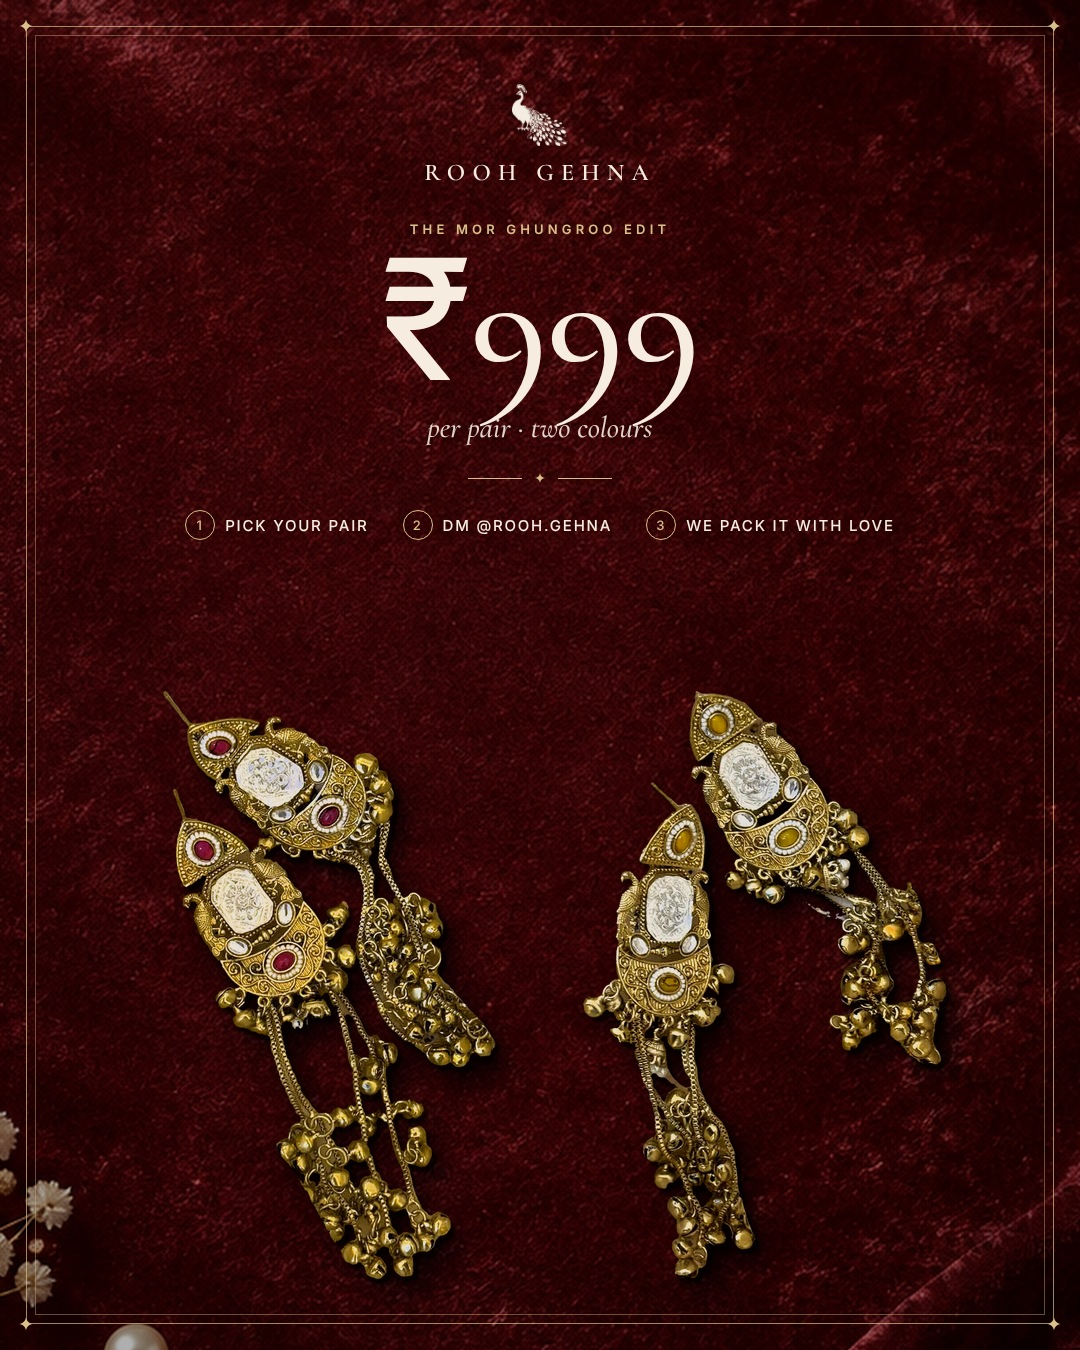
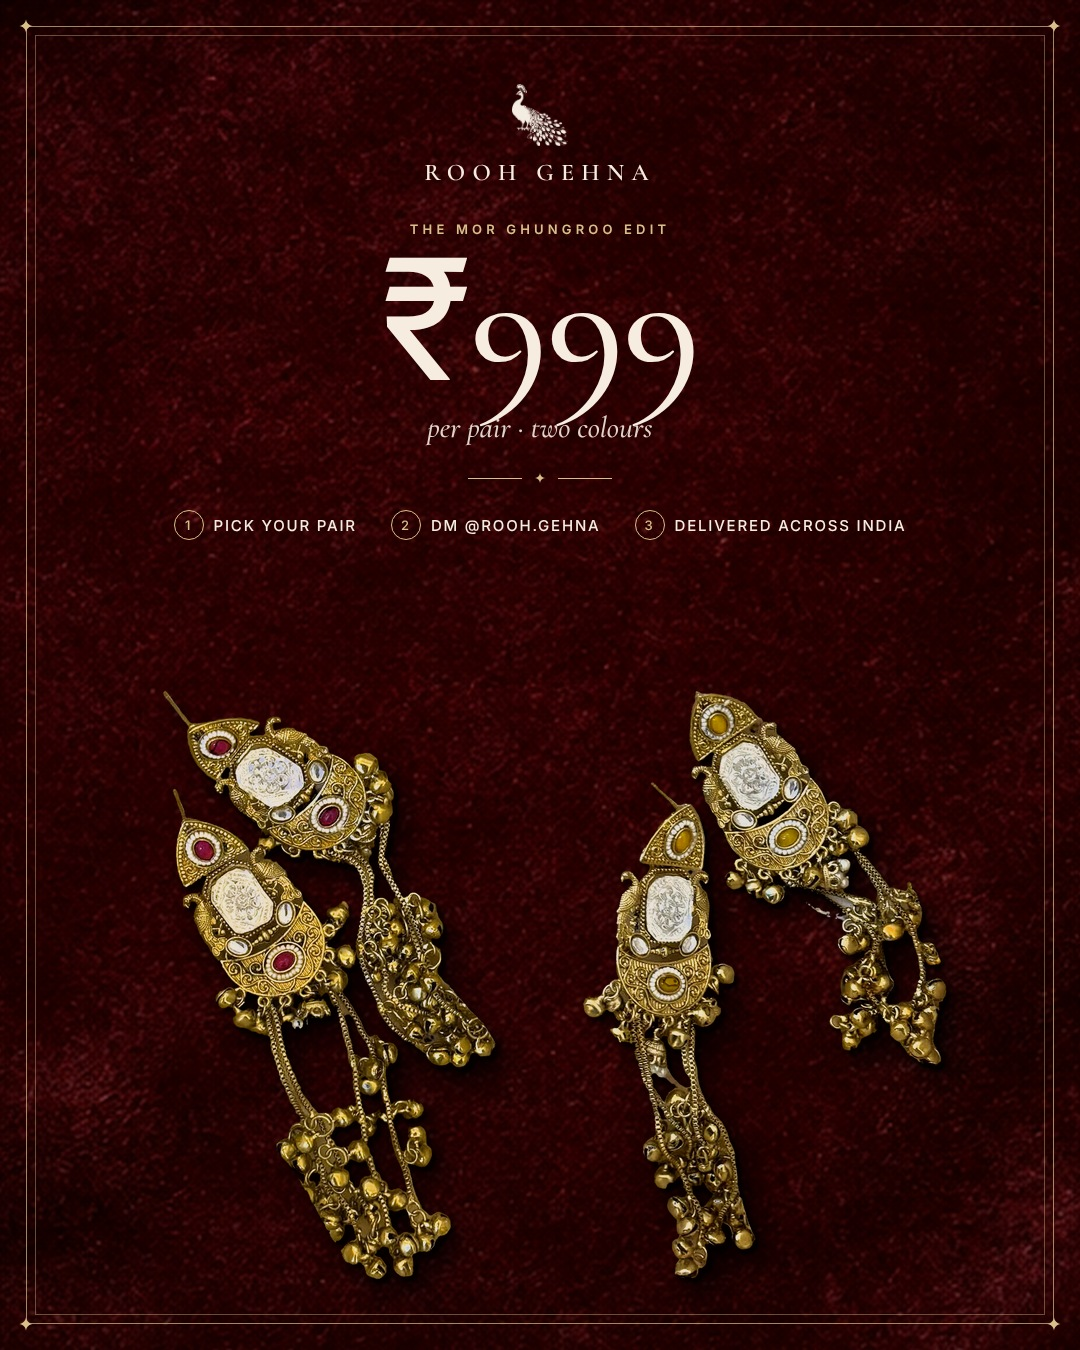
Remove boxes, pouches and gift-wrap from posts and site
No packaging is provided with orders, so:
- Instagram posts re-made on velvet, silk saree and stone backgrounds
  with no box, lid print or pouch
- Website and policy text no longer mention gift boxes, pouches or
  wrapping; the third order step is now delivery

Claude-Session: https://claude.ai/code/session_01U7uLHghsbhYa4ktsFdNifT

diff --git a/preview/Rooh-Gehna-Mobile.html b/preview/Rooh-Gehna-Mobile.html
@@ -1587,7 +1587,7 @@ textarea {
       { h: "Cancellations", p: "You can cancel any time before your order is dispatched. Just send us a DM." }] },
     care: { title: "Jewellery Care", body: [
       { p: "Our pieces have a plated, antique finish. With a little love, they stay beautiful for years." },
-      { h: "Do", p: "Wear your jewellery last — after makeup, perfume and hairspray. Wipe with a soft, dry cloth after use. Store each piece separately in its pouch, in an airtight box if possible." },
+      { h: "Do", p: "Wear your jewellery last — after makeup, perfume and hairspray. Wipe with a soft, dry cloth after use. Store each piece separately, in an airtight box or zip bag if possible." },
       { h: "Don’t", p: "Avoid water, perfume, sanitiser and moisture. Don’t sleep, bathe, swim or exercise in your jewellery." }] },
     privacy: { title: "Privacy Policy", body: [
       { p: "Rooh Gehna (“we”, “us”) respects your privacy. This website does not collect personal details, payments or accounts. Orders are placed with us directly on Instagram." },
@@ -1679,7 +1679,7 @@ textarea {
     var f = PRODUCTS[0];
     var steps = [["Choose your pair", "Browse the collection and pick the colour you love."],
       ["Send us a DM", "Tap “DM to order” and message @rooh.gehna with the piece’s name. We’ll confirm availability and delivery details."],
-      ["We pack it with love", "Your piece arrives in our gift-ready box, wrapped by hand."]];
+      ["Delivered to your door", "Once your order is confirmed, we ship it across India in 4–7 days."]];
     return '<section class="hero" aria-label="Rooh Gehna by Khushi"><div class="hero__bg" aria-hidden="true"></div><div class="hero__frame">' +
       '<img class="hero__img" src="' + IMG.hero + '" alt="Rooh Gehna by Khushi — peacock emblem on a soft ivory wall with pearls and kundan jewellery">' +
       '<div class="hero__cta"><p>Heritage jewellery, for the soul.</p><div class="hero__btns"><a href="#shop" class="btn btn--primary">Shop the collection</a><a href="#about" class="btn btn--light">Our story</a></div></div></div></section>' +
@@ -1695,7 +1695,7 @@ textarea {
         '<div style="display:flex;justify-content:center;margin-top:40px">' + orderBtn() + "</div></div></section>" +
       '<section class="section section--sand"><div class="container story">' +
         reveal('<div class="story__frame"><img src="' + IMG.lockup + '" alt="Rooh Gehna by Khushi"><p>Handpicked with love</p></div>', "story__art story__art--card") +
-        reveal('<span class="eyebrow">by Khushi</span><h2 class="h2">A peacock, a promise, and a love for old-world craft.</h2><p class="lede">The peacock — mor — has always meant grace and celebration in our homes. Rooh Gehna began with that feeling: jewellery that looks like an heirloom, feels light enough to live in, and is priced so you can wear it often.</p><p class="lede">Every piece is checked, polished and packed by hand before it reaches you.</p><span class="signature">— Khushi</span><div><a href="#about" class="link-arrow">Read our story ' + I.arrow(16) + "</a></div>", "story__body", 120) +
+        reveal('<span class="eyebrow">by Khushi</span><h2 class="h2">A peacock, a promise, and a love for old-world craft.</h2><p class="lede">The peacock — mor — has always meant grace and celebration in our homes. Rooh Gehna began with that feeling: jewellery that looks like an heirloom, feels light enough to live in, and is priced so you can wear it often.</p><p class="lede">Every piece is checked and polished by hand before it reaches you.</p><span class="signature">— Khushi</span><div><a href="#about" class="link-arrow">Read our story ' + I.arrow(16) + "</a></div>", "story__body", 120) +
       "</div></section>" +
       '<section class="section">' + reveal('<img src="' + IMG.peacock + '" alt="" width="64" height="71"><h2 class="h2">Join the family on Instagram</h2><p class="lede">New drops, styling reels and behind-the-scenes — @' + IG + '</p><a href="' + IG_URL + '" target="_blank" rel="noopener noreferrer" class="btn btn--primary">' + I.insta(18) + " Follow @" + IG + "</a>", "container band") + "</section>";
   }
@@ -1715,17 +1715,17 @@ textarea {
       '<div class="pdp__info"><div><span class="eyebrow" style="margin-bottom:12px">' + p.badge + '</span><h1 class="pdp__title">' + p.name + '</h1><p class="pdp__sub">' + p.subtitle + "</p></div>" +
       '<div class="pdp__price">' + price(p) + '<em>DM to order</em></div><p class="pdp__desc">' + p.description + "</p>" +
       '<div class="pdp__order" id="rg-buy">' + orderBtn(p, null, "btn btn--primary btn--block btn--lg", true) + "</div>" +
-      '<div class="pdp__perks"><div>' + I.shield() + " Checked by hand</div><div>" + I.gift() + " Gift-ready box</div><div>" + I.truck() + " Ships across India</div></div>" +
+      '<div class="pdp__perks"><div>' + I.shield() + " Checked by hand</div><div>" + I.spark(18) + " Handpicked design</div><div>" + I.truck() + " Ships across India</div></div>" +
       '<div class="acc"><details open><summary>Details ' + I.chev(18) + '</summary><div class="acc__body"><ul>' + p.details.map(function (d) { return "<li>" + d + "</li>"; }).join("") + "</ul></div></details>" +
-      "<details><summary>How to order " + I.chev(18) + '</summary><div class="acc__body">Tap “DM to order on Instagram” and send us a DM with the name of this piece (' + p.name + "). We’ll confirm availability, share payment options and delivery time, and pack your order once it’s confirmed.</div></details>" +
-      "<details><summary>Care " + I.chev(18) + '</summary><div class="acc__body">Keep away from perfume, water and moisture. Wipe gently with a soft dry cloth after wearing and store in its pouch, separately from other pieces, so the finish and the ghungroos stay bright.</div></details></div>' +
+      "<details><summary>How to order " + I.chev(18) + '</summary><div class="acc__body">Tap “DM to order on Instagram” and send us a DM with the name of this piece (' + p.name + "). We’ll confirm availability, share payment options and delivery time, and ship your order once it’s confirmed.</div></details>" +
+      "<details><summary>Care " + I.chev(18) + '</summary><div class="acc__body">Keep away from perfume, water and moisture. Wipe gently with a soft dry cloth after wearing and store it in an airtight box, separately from other pieces, so the finish and the ghungroos stay bright.</div></details></div>' +
       "</div></div>" +
       '<section class="section">' + reveal('<h2 class="h2">Also in this drop</h2><a href="#shop" class="link-arrow">Shop all</a>', "section-head") + grid(others, others.length === 1 ? "grid--single" : "") + "</section></div>" +
       '<div class="sticky-buy" id="rg-sticky"><div><b>' + p.name + "</b><span>" + price(p) + " · DM to order</span></div>" + orderBtn(p, "DM to order") + "</div>";
   }
 
   function vAbout() {
-    var pts = [["Handpicked", "Every design is personally chosen — nothing makes it to the shop unless we’d wear it ourselves."], ["Checked by hand", "Each piece is inspected, polished and packed by hand before it leaves us."], ["Made to last", "Quality plating and secure settings, with care instructions in every box."], ["Small & personal", "Questions? You’ll be talking to us directly — not a call centre."]];
+    var pts = [["Handpicked", "Every design is personally chosen — nothing makes it to the shop unless we’d wear it ourselves."], ["Checked by hand", "Each piece is inspected and polished by hand before it leaves us."], ["Made to last", "Quality plating and secure settings, made to be worn again and again."], ["Small & personal", "Questions? You’ll be talking to us directly — not a call centre."]];
     var b = PRODUCTS[1];
     return '<div class="container">' + reveal('<img src="' + IMG.lockup + '" alt="Rooh Gehna by Khushi" style="width:260px;height:auto;margin-bottom:12px"><h1 class="display" style="max-width:900px">Adornment, for the soul.</h1>', "page-head") + "</div>" +
       '<section class="section--tight" style="padding-top:0"><div class="container story">' + reveal('<img src="' + IMG[b.images[2]] + '" alt="' + b.name + ' earring, close-up" loading="lazy">', "story__art") +

diff --git a/preview/Rooh-Gehna-PC.html b/preview/Rooh-Gehna-PC.html
@@ -1578,7 +1578,7 @@ textarea {
       { h: "Cancellations", p: "You can cancel any time before your order is dispatched. Just send us a DM." }] },
     care: { title: "Jewellery Care", body: [
       { p: "Our pieces have a plated, antique finish. With a little love, they stay beautiful for years." },
-      { h: "Do", p: "Wear your jewellery last — after makeup, perfume and hairspray. Wipe with a soft, dry cloth after use. Store each piece separately in its pouch, in an airtight box if possible." },
+      { h: "Do", p: "Wear your jewellery last — after makeup, perfume and hairspray. Wipe with a soft, dry cloth after use. Store each piece separately, in an airtight box or zip bag if possible." },
       { h: "Don’t", p: "Avoid water, perfume, sanitiser and moisture. Don’t sleep, bathe, swim or exercise in your jewellery." }] },
     privacy: { title: "Privacy Policy", body: [
       { p: "Rooh Gehna (“we”, “us”) respects your privacy. This website does not collect personal details, payments or accounts. Orders are placed with us directly on Instagram." },
@@ -1670,7 +1670,7 @@ textarea {
     var f = PRODUCTS[0];
     var steps = [["Choose your pair", "Browse the collection and pick the colour you love."],
       ["Send us a DM", "Tap “DM to order” and message @rooh.gehna with the piece’s name. We’ll confirm availability and delivery details."],
-      ["We pack it with love", "Your piece arrives in our gift-ready box, wrapped by hand."]];
+      ["Delivered to your door", "Once your order is confirmed, we ship it across India in 4–7 days."]];
     return '<section class="hero" aria-label="Rooh Gehna by Khushi"><div class="hero__bg" aria-hidden="true"></div><div class="hero__frame">' +
       '<img class="hero__img" src="' + IMG.hero + '" alt="Rooh Gehna by Khushi — peacock emblem on a soft ivory wall with pearls and kundan jewellery">' +
       '<div class="hero__cta"><p>Heritage jewellery, for the soul.</p><div class="hero__btns"><a href="#shop" class="btn btn--primary">Shop the collection</a><a href="#about" class="btn btn--light">Our story</a></div></div></div></section>' +
@@ -1686,7 +1686,7 @@ textarea {
         '<div style="display:flex;justify-content:center;margin-top:40px">' + orderBtn() + "</div></div></section>" +
       '<section class="section section--sand"><div class="container story">' +
         reveal('<div class="story__frame"><img src="' + IMG.lockup + '" alt="Rooh Gehna by Khushi"><p>Handpicked with love</p></div>', "story__art story__art--card") +
-        reveal('<span class="eyebrow">by Khushi</span><h2 class="h2">A peacock, a promise, and a love for old-world craft.</h2><p class="lede">The peacock — mor — has always meant grace and celebration in our homes. Rooh Gehna began with that feeling: jewellery that looks like an heirloom, feels light enough to live in, and is priced so you can wear it often.</p><p class="lede">Every piece is checked, polished and packed by hand before it reaches you.</p><span class="signature">— Khushi</span><div><a href="#about" class="link-arrow">Read our story ' + I.arrow(16) + "</a></div>", "story__body", 120) +
+        reveal('<span class="eyebrow">by Khushi</span><h2 class="h2">A peacock, a promise, and a love for old-world craft.</h2><p class="lede">The peacock — mor — has always meant grace and celebration in our homes. Rooh Gehna began with that feeling: jewellery that looks like an heirloom, feels light enough to live in, and is priced so you can wear it often.</p><p class="lede">Every piece is checked and polished by hand before it reaches you.</p><span class="signature">— Khushi</span><div><a href="#about" class="link-arrow">Read our story ' + I.arrow(16) + "</a></div>", "story__body", 120) +
       "</div></section>" +
       '<section class="section">' + reveal('<img src="' + IMG.peacock + '" alt="" width="64" height="71"><h2 class="h2">Join the family on Instagram</h2><p class="lede">New drops, styling reels and behind-the-scenes — @' + IG + '</p><a href="' + IG_URL + '" target="_blank" rel="noopener noreferrer" class="btn btn--primary">' + I.insta(18) + " Follow @" + IG + "</a>", "container band") + "</section>";
   }
@@ -1706,17 +1706,17 @@ textarea {
       '<div class="pdp__info"><div><span class="eyebrow" style="margin-bottom:12px">' + p.badge + '</span><h1 class="pdp__title">' + p.name + '</h1><p class="pdp__sub">' + p.subtitle + "</p></div>" +
       '<div class="pdp__price">' + price(p) + '<em>DM to order</em></div><p class="pdp__desc">' + p.description + "</p>" +
       '<div class="pdp__order" id="rg-buy">' + orderBtn(p, null, "btn btn--primary btn--block btn--lg", true) + "</div>" +
-      '<div class="pdp__perks"><div>' + I.shield() + " Checked by hand</div><div>" + I.gift() + " Gift-ready box</div><div>" + I.truck() + " Ships across India</div></div>" +
+      '<div class="pdp__perks"><div>' + I.shield() + " Checked by hand</div><div>" + I.spark(18) + " Handpicked design</div><div>" + I.truck() + " Ships across India</div></div>" +
       '<div class="acc"><details open><summary>Details ' + I.chev(18) + '</summary><div class="acc__body"><ul>' + p.details.map(function (d) { return "<li>" + d + "</li>"; }).join("") + "</ul></div></details>" +
-      "<details><summary>How to order " + I.chev(18) + '</summary><div class="acc__body">Tap “DM to order on Instagram” and send us a DM with the name of this piece (' + p.name + "). We’ll confirm availability, share payment options and delivery time, and pack your order once it’s confirmed.</div></details>" +
-      "<details><summary>Care " + I.chev(18) + '</summary><div class="acc__body">Keep away from perfume, water and moisture. Wipe gently with a soft dry cloth after wearing and store in its pouch, separately from other pieces, so the finish and the ghungroos stay bright.</div></details></div>' +
+      "<details><summary>How to order " + I.chev(18) + '</summary><div class="acc__body">Tap “DM to order on Instagram” and send us a DM with the name of this piece (' + p.name + "). We’ll confirm availability, share payment options and delivery time, and ship your order once it’s confirmed.</div></details>" +
+      "<details><summary>Care " + I.chev(18) + '</summary><div class="acc__body">Keep away from perfume, water and moisture. Wipe gently with a soft dry cloth after wearing and store it in an airtight box, separately from other pieces, so the finish and the ghungroos stay bright.</div></details></div>' +
       "</div></div>" +
       '<section class="section">' + reveal('<h2 class="h2">Also in this drop</h2><a href="#shop" class="link-arrow">Shop all</a>', "section-head") + grid(others, others.length === 1 ? "grid--single" : "") + "</section></div>" +
       '<div class="sticky-buy" id="rg-sticky"><div><b>' + p.name + "</b><span>" + price(p) + " · DM to order</span></div>" + orderBtn(p, "DM to order") + "</div>";
   }
 
   function vAbout() {
-    var pts = [["Handpicked", "Every design is personally chosen — nothing makes it to the shop unless we’d wear it ourselves."], ["Checked by hand", "Each piece is inspected, polished and packed by hand before it leaves us."], ["Made to last", "Quality plating and secure settings, with care instructions in every box."], ["Small & personal", "Questions? You’ll be talking to us directly — not a call centre."]];
+    var pts = [["Handpicked", "Every design is personally chosen — nothing makes it to the shop unless we’d wear it ourselves."], ["Checked by hand", "Each piece is inspected and polished by hand before it leaves us."], ["Made to last", "Quality plating and secure settings, made to be worn again and again."], ["Small & personal", "Questions? You’ll be talking to us directly — not a call centre."]];
     var b = PRODUCTS[1];
     return '<div class="container">' + reveal('<img src="' + IMG.lockup + '" alt="Rooh Gehna by Khushi" style="width:260px;height:auto;margin-bottom:12px"><h1 class="display" style="max-width:900px">Adornment, for the soul.</h1>', "page-head") + "</div>" +
       '<section class="section--tight" style="padding-top:0"><div class="container story">' + reveal('<img src="' + IMG[b.images[2]] + '" alt="' + b.name + ' earring, close-up" loading="lazy">', "story__art") +

diff --git a/app/product/[slug]/ProductView.tsx b/app/product/[slug]/ProductView.tsx
@@ -4,7 +4,7 @@ import { useEffect, useRef, useState } from "react";
 import { formatPrice, type Product } from "@/lib/products";
 import ProductImage from "@/components/ProductImage";
 import OrderButton from "@/components/OrderButton";
-import { ChevronIcon, GiftIcon, ShieldIcon, TruckIcon } from "@/components/Icons";
+import { ChevronIcon, ShieldIcon, SparkIcon, TruckIcon } from "@/components/Icons";
 
 export default function ProductView({ product }: { product: Product }) {
   const [active, setActive] = useState(0);
@@ -68,7 +68,7 @@ export default function ProductView({ product }: { product: Product }) {
 
           <div className="pdp__perks">
             <div><ShieldIcon /> Checked by hand</div>
-            <div><GiftIcon /> Gift-ready box</div>
+            <div><SparkIcon size={18} /> Handpicked design</div>
             <div><TruckIcon /> Ships across India</div>
           </div>
 
@@ -83,13 +83,13 @@ export default function ProductView({ product }: { product: Product }) {
               <summary>How to order <ChevronIcon size={18} /></summary>
               <div className="acc__body">
                 Tap “DM to order on Instagram” and send us a DM with the name of this piece ({product.name}). We’ll confirm availability,
-                share payment options and delivery time, and pack your order once it’s confirmed.
+                share payment options and delivery time, and ship your order once it’s confirmed.
               </div>
             </details>
             <details>
               <summary>Care <ChevronIcon size={18} /></summary>
               <div className="acc__body">
-                Keep away from perfume, water and moisture. Wipe gently with a soft dry cloth after wearing and store in its pouch,
+                Keep away from perfume, water and moisture. Wipe gently with a soft dry cloth after wearing and store it in an airtight box,
                 separately from other pieces, so the finish and the ghungroos stay bright.
               </div>
             </details>

diff --git a/app/page.tsx b/app/page.tsx
@@ -89,7 +89,7 @@ export default function Home() {
             {[
               ["Choose your pair", "Browse the collection and pick the colour you love."],
               ["Send us a DM", "Tap “DM to order” and message @rooh.gehna with the piece’s name. We’ll confirm availability and delivery details."],
-              ["We pack it with love", "Your piece arrives in our gift-ready box, wrapped by hand."],
+              ["Delivered to your door", "Once your order is confirmed, we ship it across India in 4–7 days."],
             ].map(([t, d], i) => (
               <Reveal key={t} className="step" delay={i * 80}>
                 <span className="step__n">{i + 1}</span>
@@ -120,7 +120,7 @@ export default function Home() {
               The peacock — mor — has always meant grace and celebration in our homes. Rooh Gehna began with that feeling:
               jewellery that looks like an heirloom, feels light enough to live in, and is priced so you can wear it often.
             </p>
-            <p className="lede">Every piece is checked, polished and packed by hand before it reaches you.</p>
+            <p className="lede">Every piece is checked and polished by hand before it reaches you.</p>
             <span className="signature">— Khushi</span>
             <div><Link href="/about" className="link-arrow">Read our story <ArrowIcon size={16} /></Link></div>
           </Reveal>

diff --git a/app/about/page.tsx b/app/about/page.tsx
@@ -40,8 +40,8 @@ export default function About() {
           <div className="promises">
             {[
               ["Handpicked", "Every design is personally chosen — nothing makes it to the shop unless we’d wear it ourselves."],
-              ["Checked by hand", "Each piece is inspected, polished and packed by hand before it leaves us."],
-              ["Made to last", "Quality gold plating and secure settings, with care instructions in every box."],
+              ["Checked by hand", "Each piece is inspected and polished by hand before it leaves us."],
+              ["Made to last", "Quality gold plating and secure settings, made to be worn again and again."],
               ["Small & personal", "Questions? You’ll be talking to us directly — not a call centre."],
             ].map(([t, d], i) => (
               <Reveal key={t} className="promise" delay={i * 80}><b>{t}</b><span>{d}</span></Reveal>

diff --git a/lib/policies.ts b/lib/policies.ts
@@ -25,7 +25,7 @@ export const POLICIES: Record<string, { title: string; body: { h?: string; p: st
     title: "Jewellery Care",
     body: [
       { p: "Our pieces have a plated, antique finish. With a little love, they stay beautiful for years." },
-      { h: "Do", p: "Wear your jewellery last — after makeup, perfume and hairspray. Wipe with a soft, dry cloth after use. Store each piece separately in its pouch, in an airtight box if possible." },
+      { h: "Do", p: "Wear your jewellery last — after makeup, perfume and hairspray. Wipe with a soft, dry cloth after use. Store each piece separately, in an airtight box or zip bag if possible." },
       { h: "Don’t", p: "Avoid water, perfume, sanitiser and moisture. Don’t sleep, bathe, swim or exercise in your jewellery." },
     ],
   },
